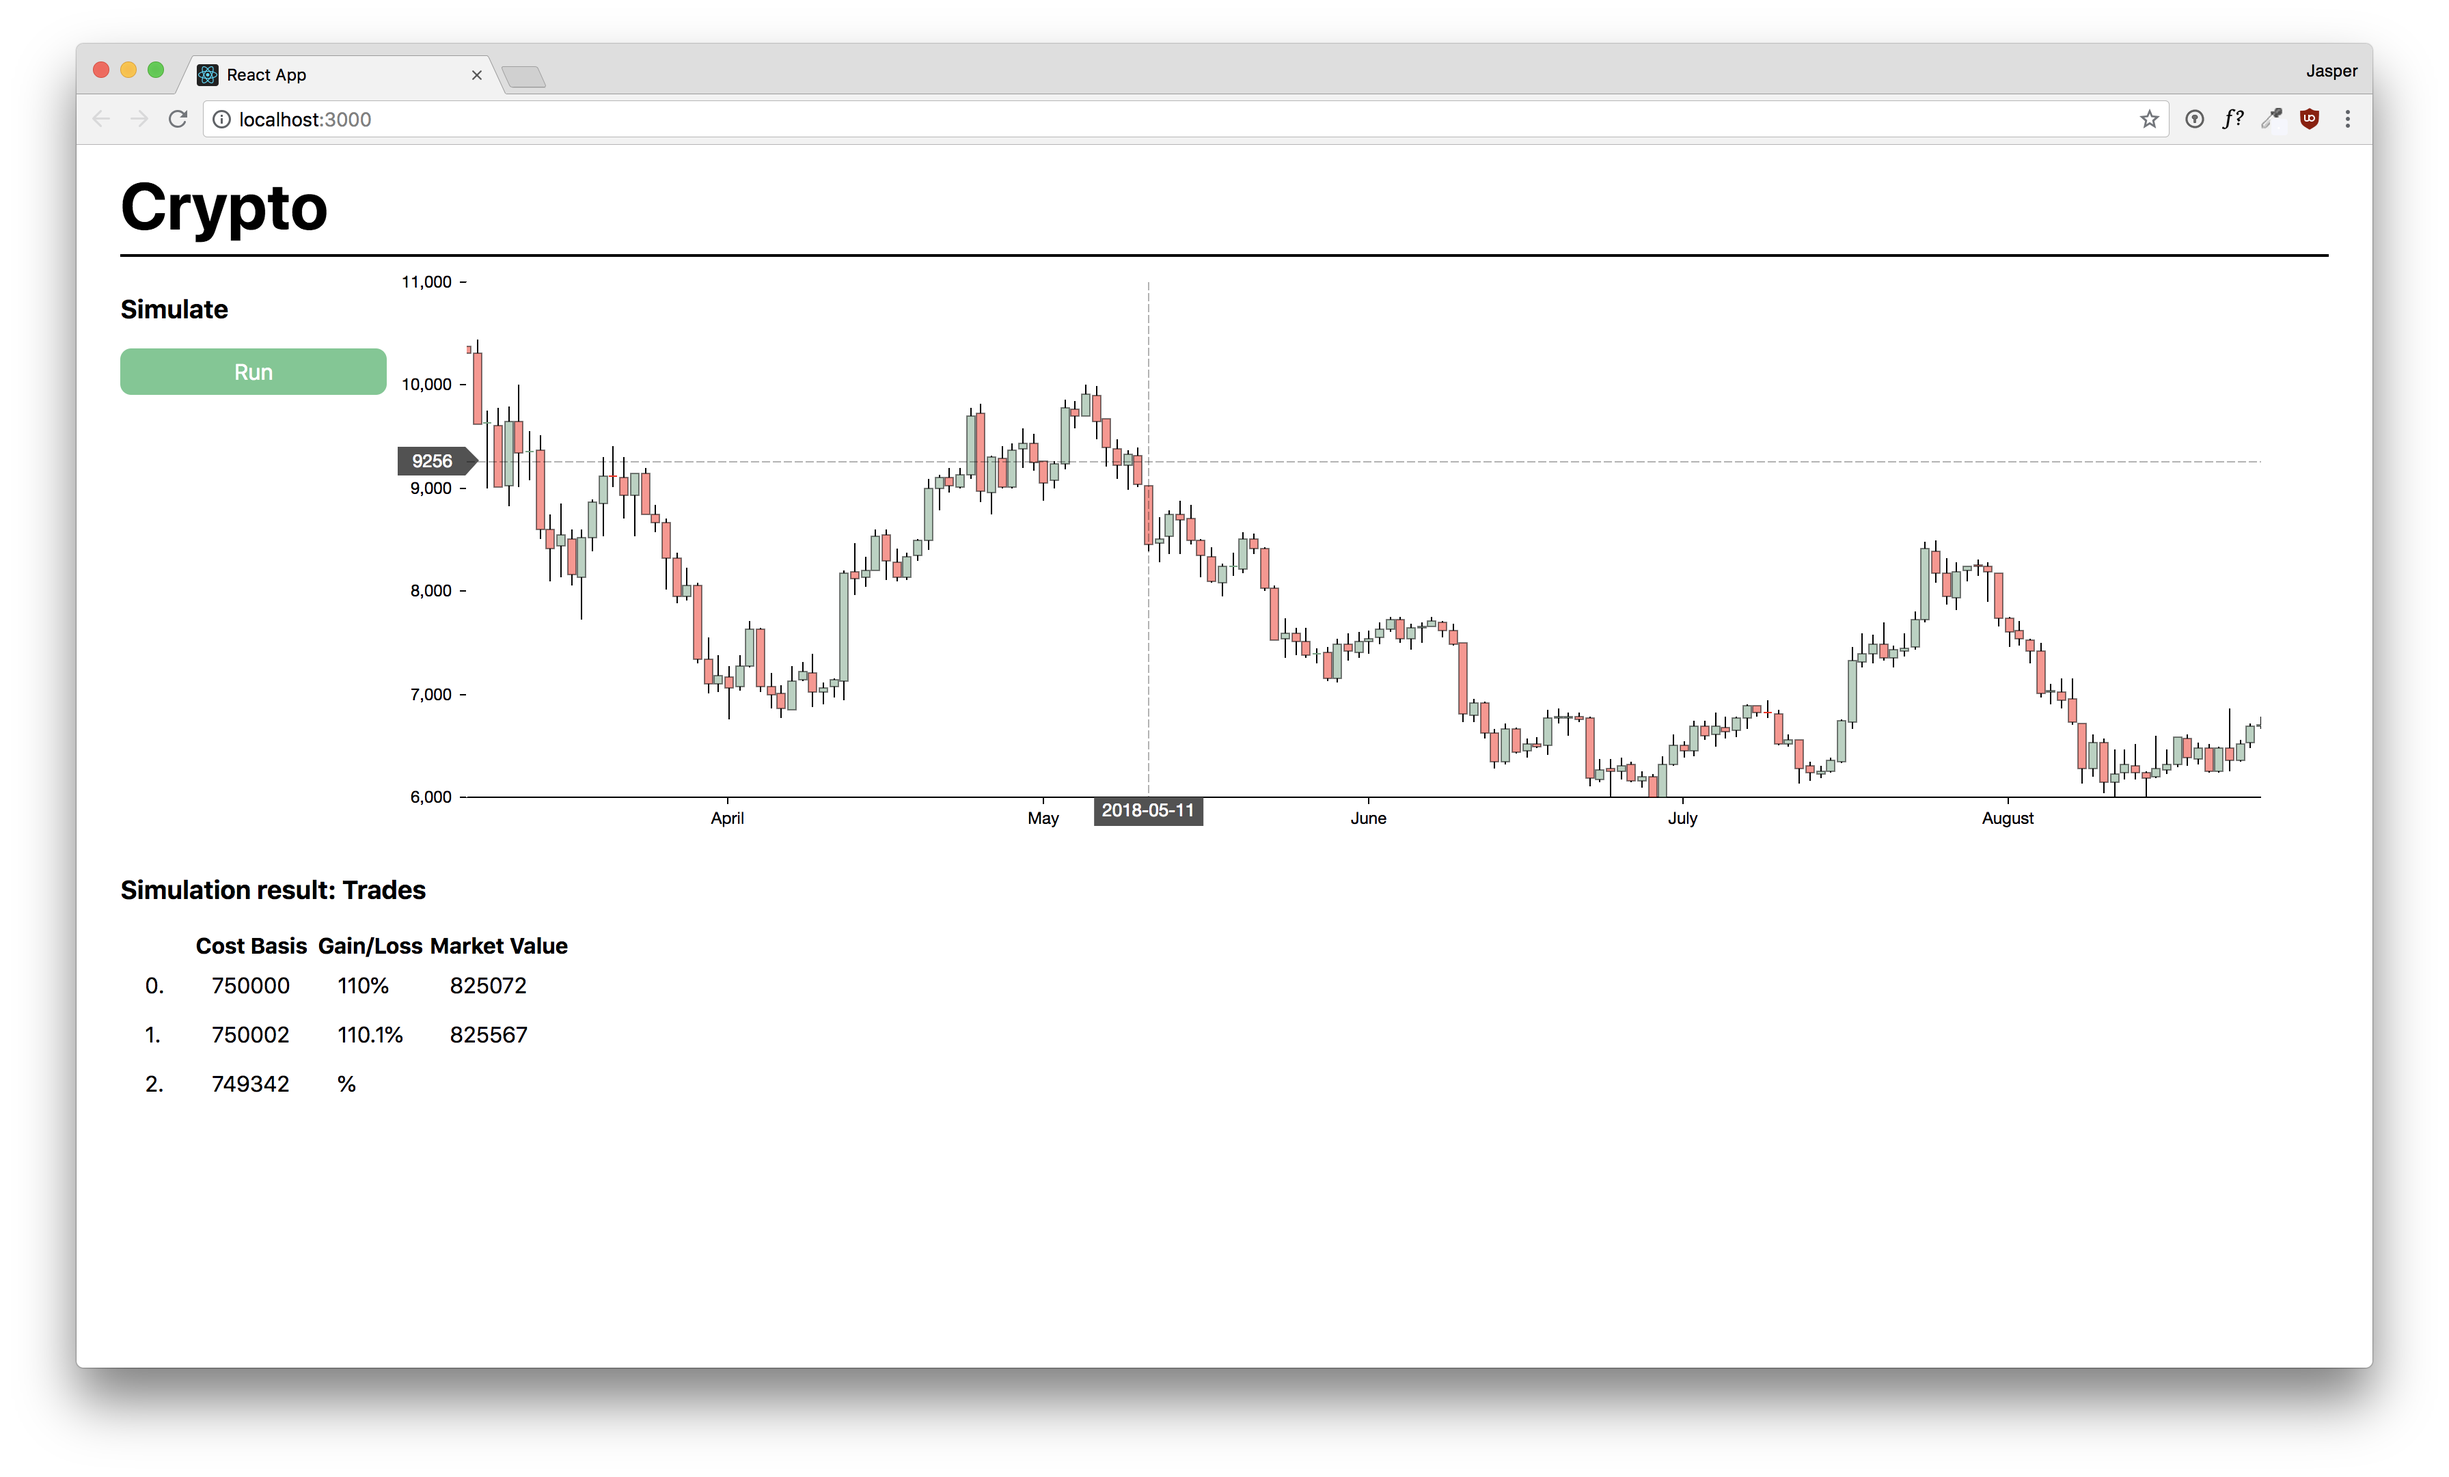
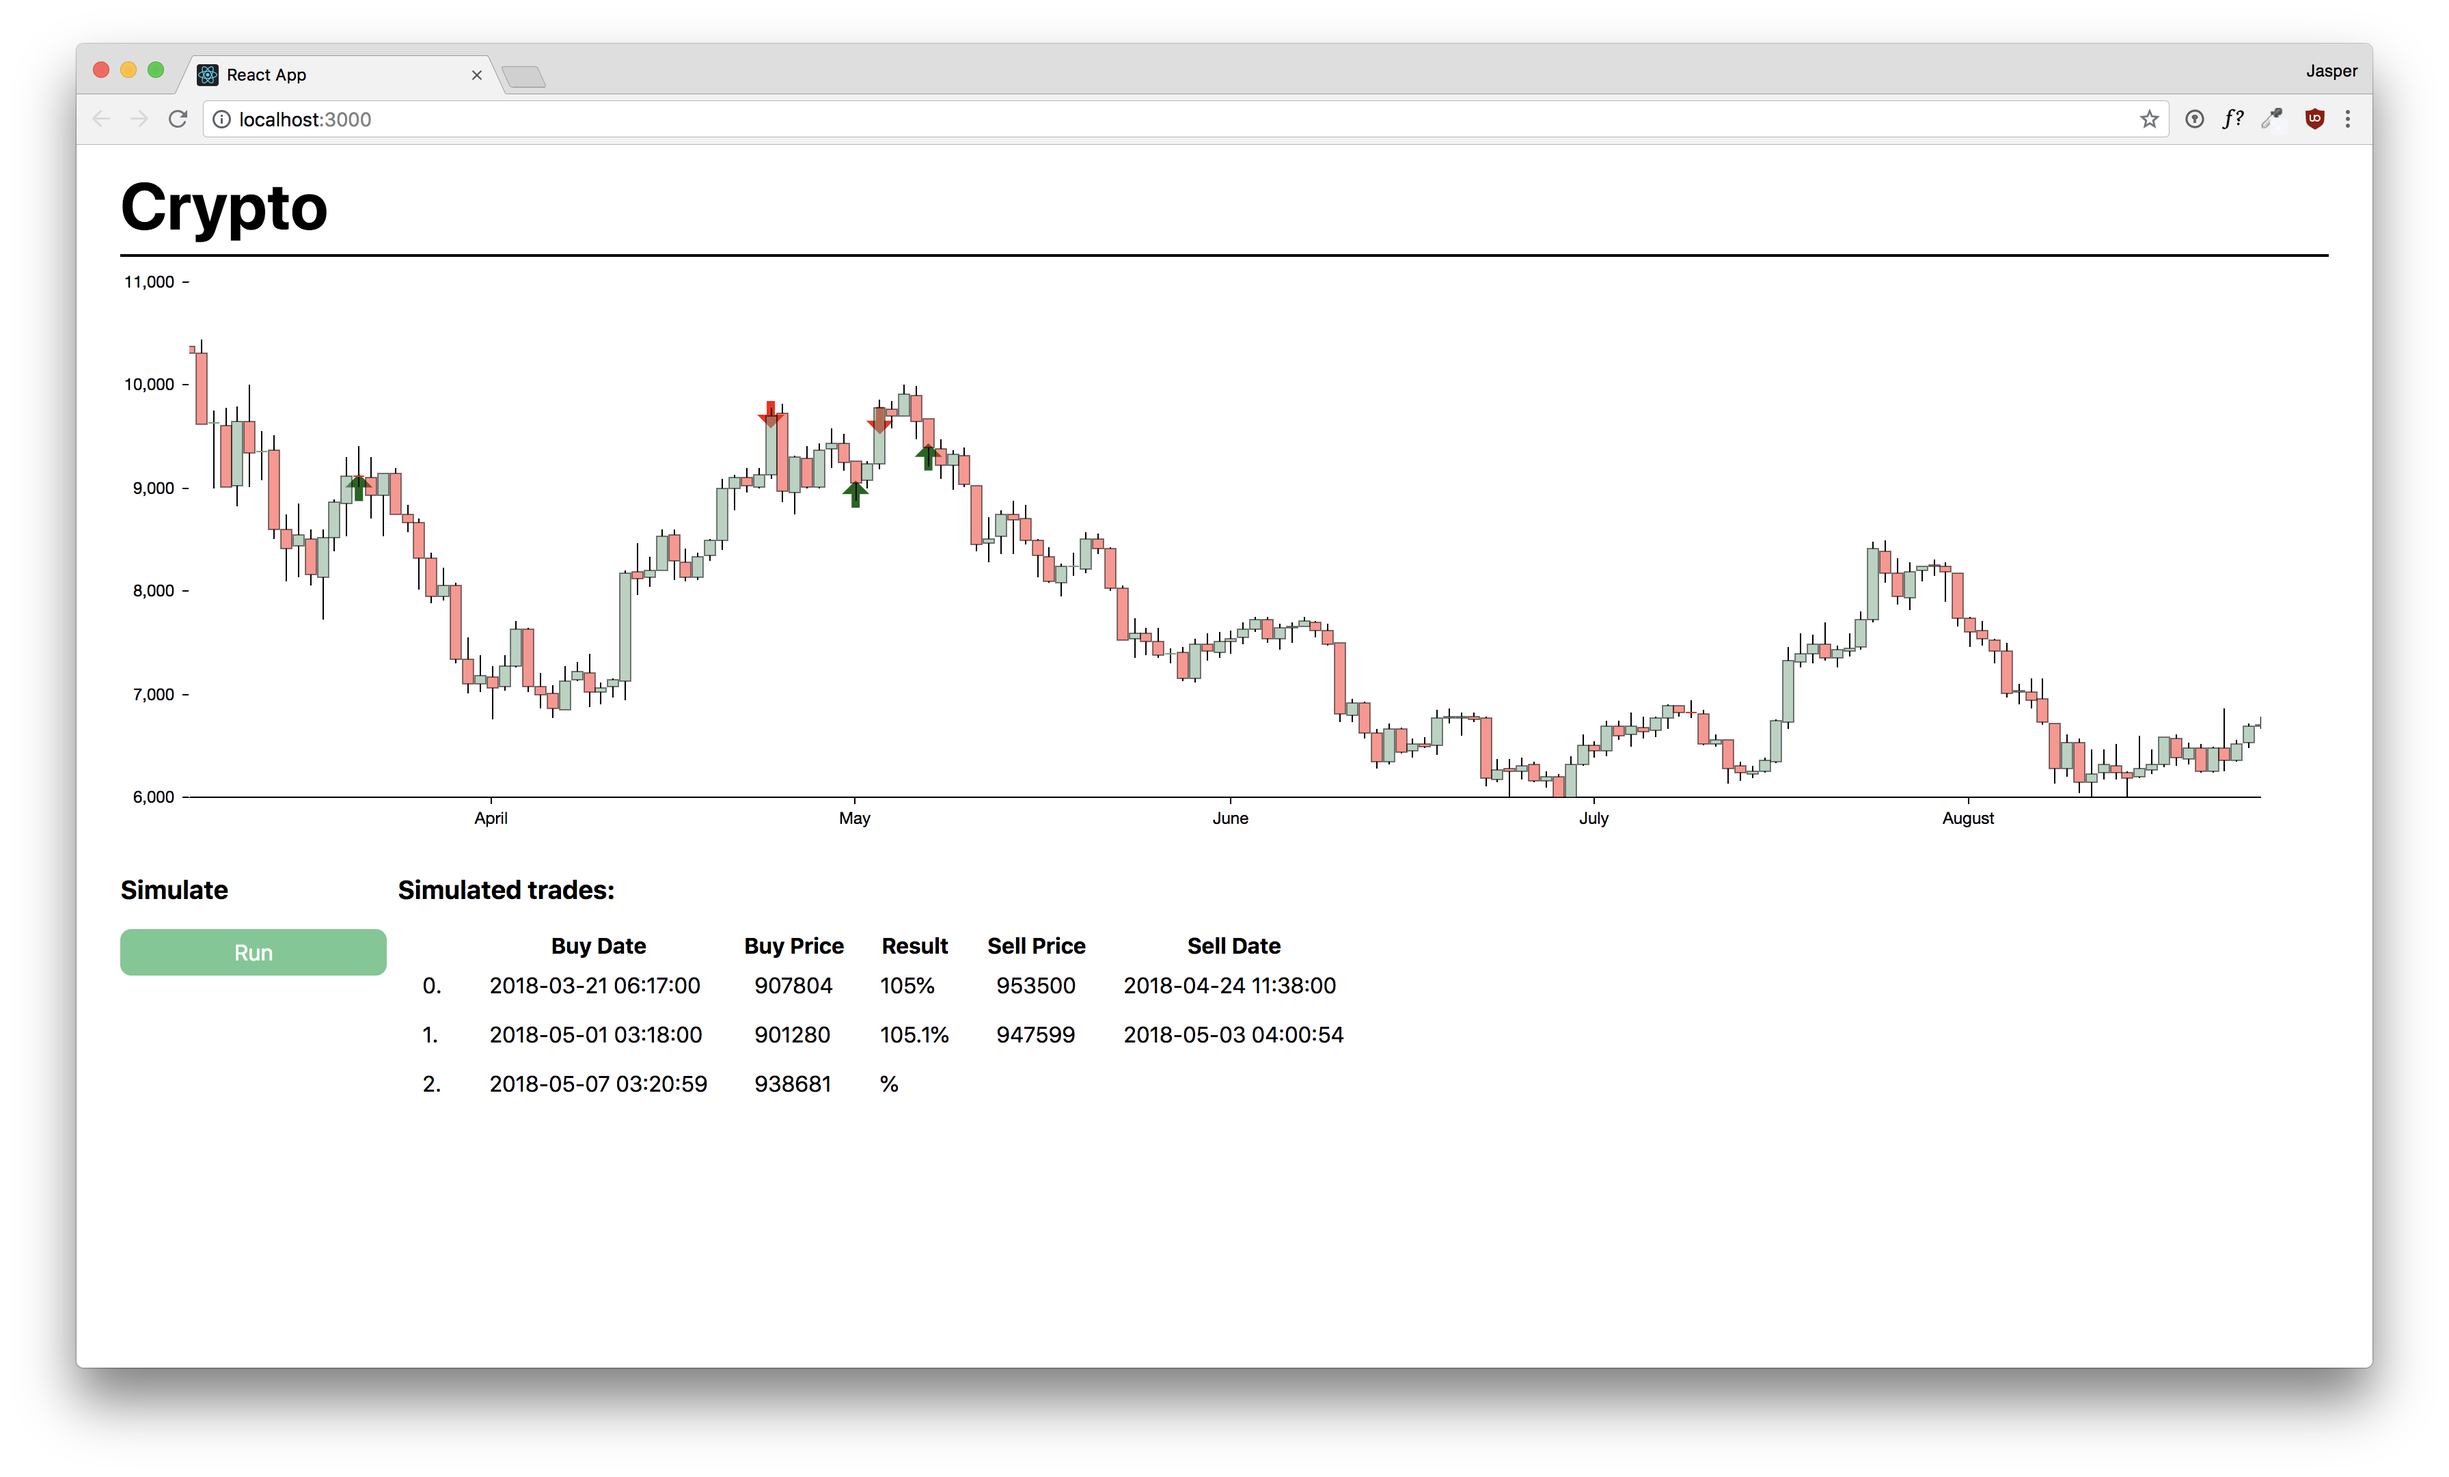
Add date formatting, update screenshot

diff --git a/frontend/src/container/SimulationResult.js b/frontend/src/container/SimulationResult.js
@@ -1,6 +1,7 @@
 import React, { Component } from 'react';
 import PropTypes from 'prop-types';
 import { observer } from 'mobx-react';
+import moment from 'moment';
 import styled from 'styled-components';
 
 const Container = styled.div`
@@ -19,6 +20,8 @@ class SimulationResult extends Component {
     simulation: PropTypes.object.isRequired,
   };
 
+  formatDate = date => moment(date).format('YYYY-MM-DD hh:mm:ss');
+
   renderOrder(order) {
     return (
       <div key={order.timestamp + order.type}>
@@ -27,18 +30,16 @@ class SimulationResult extends Component {
     );
   }
 
-  renderTrade(trade, i) {
-    return (
-      <tr key={trade.buyDate + trade.sellPrice}>
-        <td>{i}.</td>
-        <td>{trade.buyDate}</td>
-        <td>{trade.buyPrice}</td>
-        <td>{trade.result}%</td>
-        <td>{trade.sellPrice}</td>
-        <td>{trade.sellDate}</td>
-      </tr>
-    );
-  }
+  renderTrade = (trade, i) => (
+    <tr key={trade.buyDate + trade.sellPrice}>
+      <td>{i}.</td>
+      <td>{this.formatDate(trade.buyDate)}</td>
+      <td>{trade.buyPrice}</td>
+      <td>{trade.result}%</td>
+      <td>{trade.sellPrice}</td>
+      <td>{trade.sellDate && this.formatDate(trade.sellDate)}</td>
+    </tr>
+  );
 
   render() {
     const { simulation } = this.props;
@@ -59,7 +60,7 @@ class SimulationResult extends Component {
     }
     return (
       <Container>
-        <h3>Simulation result: Trades</h3>
+        <h3>Simulated trades:</h3>
         {/* <OrderContainer>
           {data && data.orders.map(this.renderOrder)}
         </OrderContainer> */}

diff --git a/frontend/src/container/CoinValue.js b/frontend/src/container/CoinValue.js
@@ -1,5 +1,6 @@
 import React, { Component } from 'react';
-import { observer, PropTypes } from 'mobx-react';
+import PropTypes from 'prop-types';
+import { observer } from 'mobx-react';
 import { observable } from 'mobx';
 import styled from 'styled-components';
 
